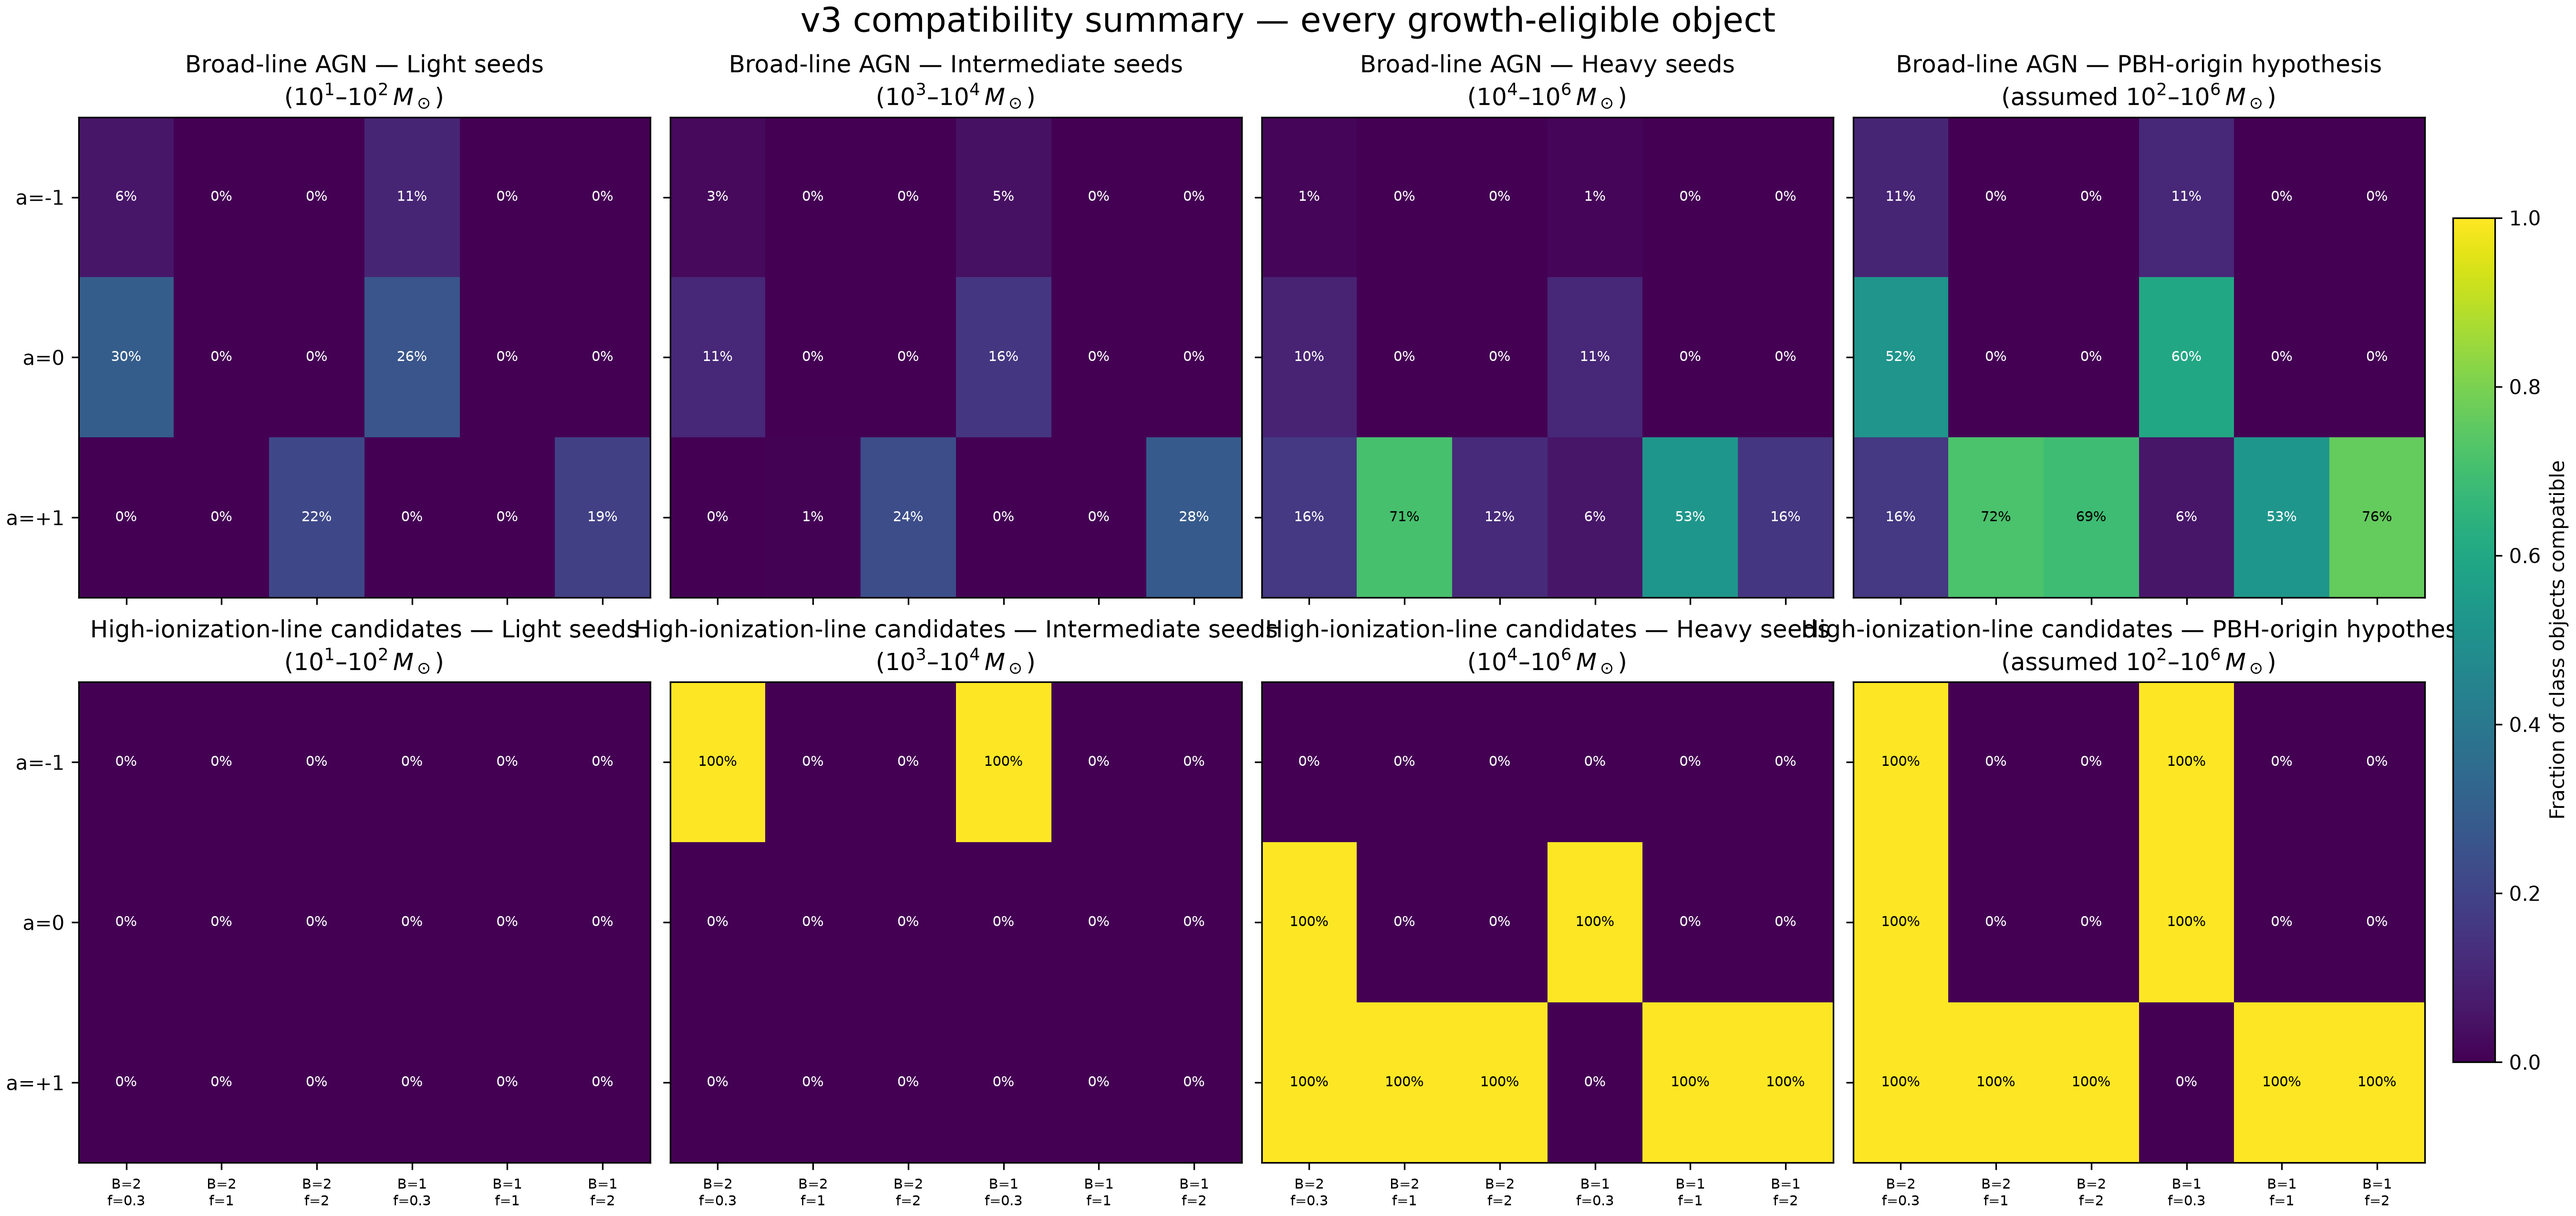
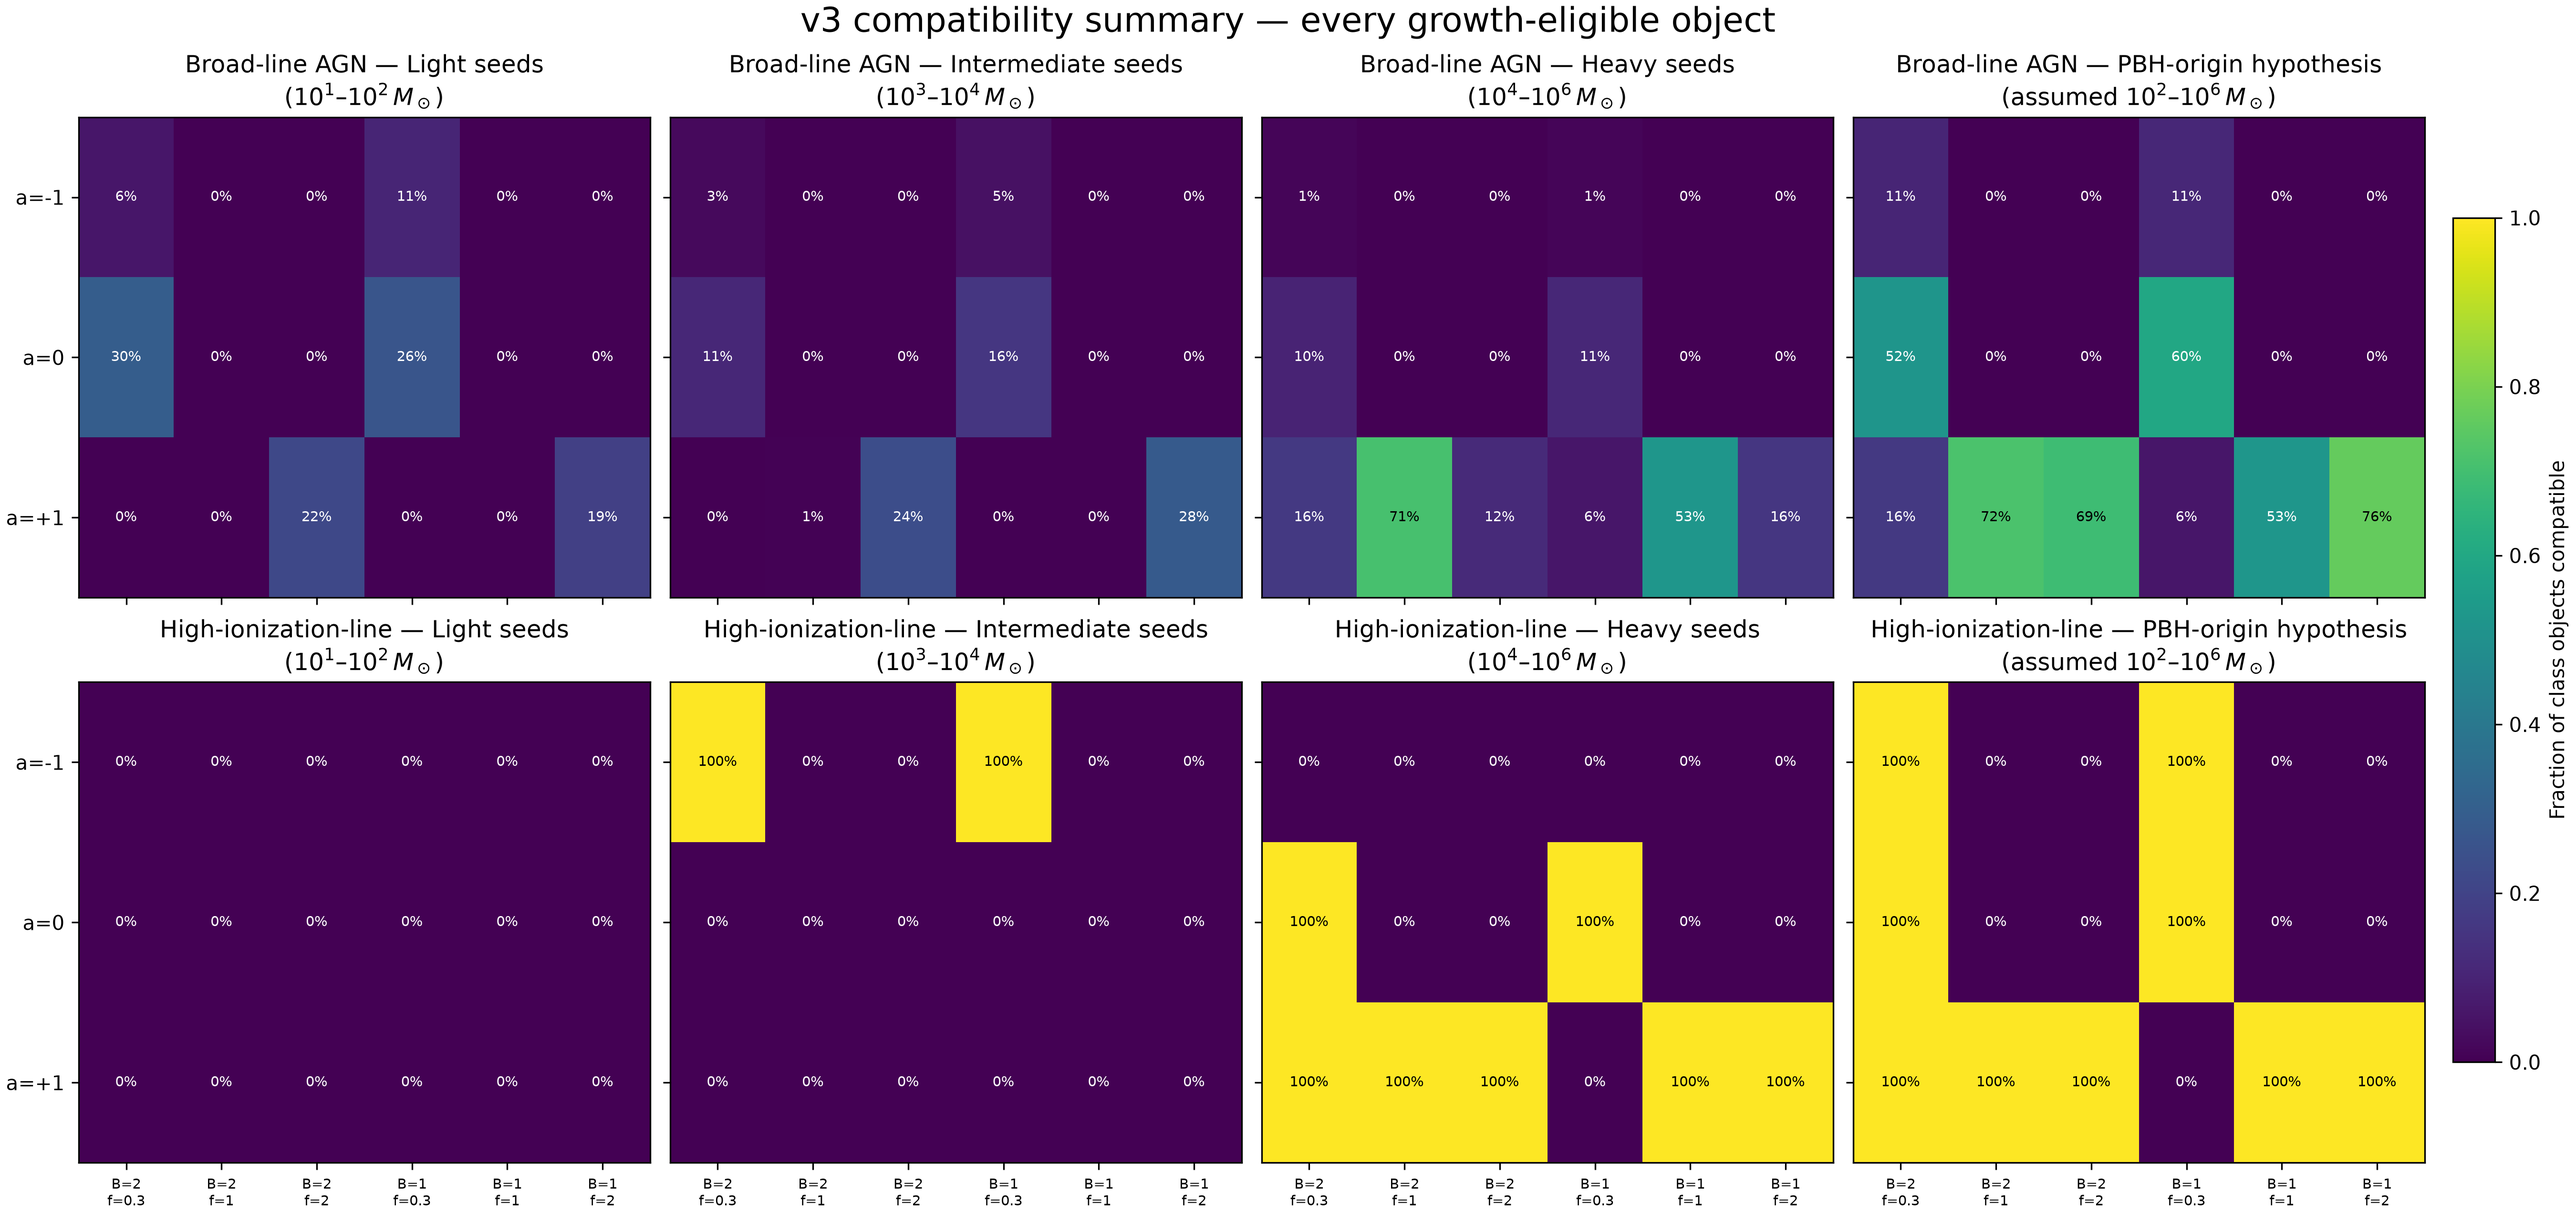
plot titles

Changed region(s): [[0.0311, 0.4957, 0.9644, 0.5267]]

diff --git a/src/internal/atlas.py b/src/internal/atlas.py
@@ -465,7 +465,8 @@ def plot_compatibility_summary(objects: pd.DataFrame, compatibility: pd.DataFram
                     value = float(pivot.iloc[y, x])
                     axes[row, col].text(x, y, f"{value:.0%}", ha="center", va="center",
                                         fontsize=7, color="white" if value < 0.6 else "black")
-            axes[row, col].set_title(f"{LABELS[object_class]} — {SEED_LABELS[seed_name]}")
+            class_title = LABELS[object_class].removesuffix(" candidates")
+            axes[row, col].set_title(f"{class_title} — {SEED_LABELS[seed_name]}")
             axes[row, col].set_xticks(range(pivot.shape[1]),
                                       [f"B={2 if b == 'merger_boost_x2' else 1}\nf={f:g}" for b, f in pivot.columns],
                                       fontsize=7)
